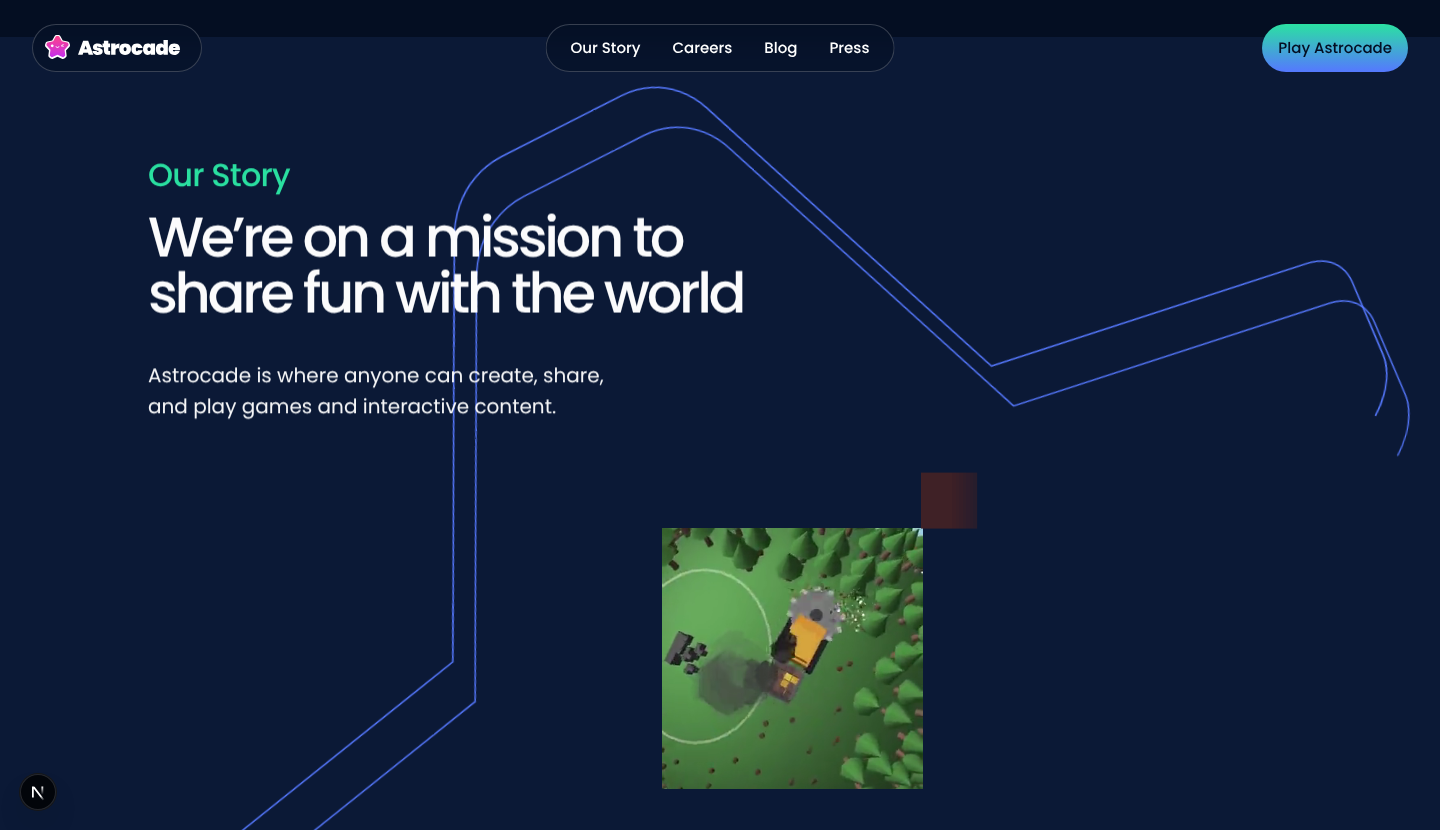
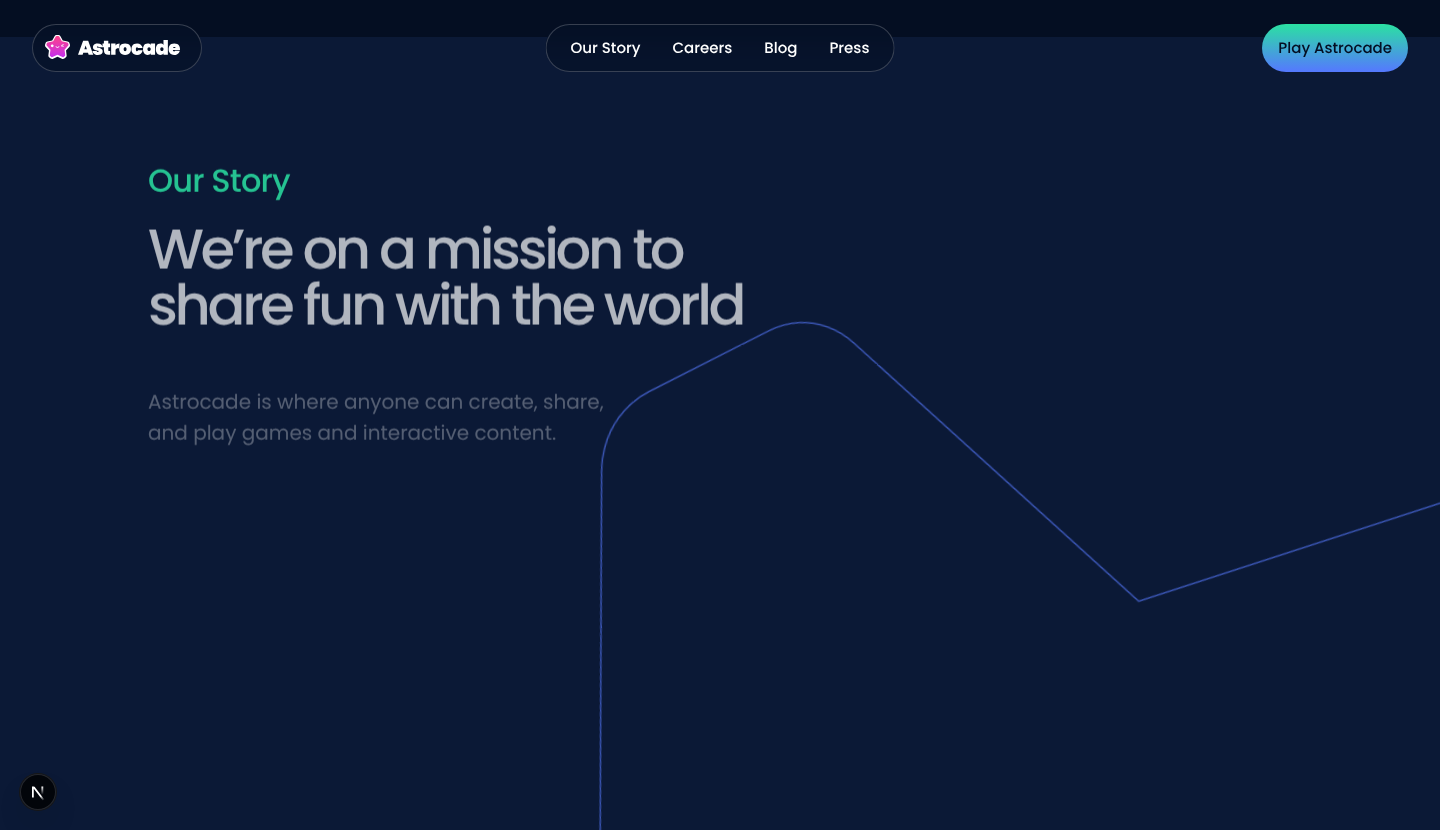
Our Story outline ripples out from the innermost line (next to the star boxes)
Claude-Session: https://claude.ai/code/session_01V8sXgFS3xdYpwR1xoxM8E9

diff --git a/src/components/home/StoryLines.tsx b/src/components/home/StoryLines.tsx
@@ -4,8 +4,10 @@ import type { CSSProperties } from "react";
  *  The four lines are parallel copies of one outline, each shifted further out.
  *  Once an ancestor gets `.is-in` they ripple outward from the innermost line,
  *  one after another — played once. */
-// offset of each line from the innermost one (viewBox units)
+// position of each line (viewBox units); the last one hugs the star boxes, so
+// it is the innermost and the ripple starts from it
 const SHIFT = [[0, 0], [-60, 46], [-126, 103], [-212, 179]];
+const INNER = SHIFT[SHIFT.length - 1];
 const LINES = [
   "M228.684 267.646C227.935 258.925 228.398 250.584 229.949 242.942C231.517 235.253 234.193 228.269 237.867 222.341C241.568 216.364 246.278 211.457 251.874 207.967L325.859 161.907C332.056 158.051 338.84 155.928 345.871 155.49C352.947 155.052 360.265 156.316 367.459 159.23C374.675 162.166 381.75 166.755 388.325 172.935L678.163 445.497L1099.11 387.434C1110.44 385.871 1121.69 386.324 1132.37 388.608C1143.1 390.916 1153.23 395.069 1162.23 400.87C1171.25 406.682 1179.12 414.14 1185.34 423.014L1262.52 533.348C1268.6 542.03 1272.63 551.525 1274.62 561.327C1276.59 571.088 1276.53 581.118 1274.47 590.926C1272.42 600.672 1268.39 610.172 1262.43 618.967L1046.46 937.377L1192.31 1235.5C1195.43 1241.89 1196.95 1248.2 1196.96 1254.14C1196.97 1260.07 1195.47 1265.62 1192.55 1270.54C1189.65 1275.44 1185.35 1279.7 1179.74 1283.08L1112.65 1323.52C1107.58 1326.58 1101.54 1328.64 1094.89 1329.72C1088.3 1330.78 1081.09 1330.87 1073.63 1329.99C1066.21 1329.11 1058.53 1327.27 1050.91 1324.47",
   "M168.408 313.554C167.659 304.832 168.122 296.491 169.673 288.849C171.241 281.16 173.917 274.176 177.591 268.248C181.292 262.271 186.003 257.364 191.598 253.874L265.584 207.814C271.78 203.958 278.564 201.836 285.595 201.397C292.671 200.959 299.989 202.223 307.183 205.137C314.399 208.073 321.474 212.662 328.049 218.842L617.887 491.405L1038.83 433.341C1050.16 431.779 1061.42 432.232 1072.09 434.515C1082.83 436.823 1092.95 440.976 1101.95 446.777C1110.98 452.589 1118.85 460.047 1125.06 468.921L1202.25 579.256C1208.33 587.937 1212.35 597.432 1214.34 607.234C1216.31 616.995 1216.26 627.025 1214.19 636.834C1212.14 646.579 1208.11 656.079 1202.15 664.874L986.187 983.284L1132.03 1281.4C1135.16 1287.8 1136.68 1294.1 1136.68 1300.05C1136.7 1305.97 1135.19 1311.53 1132.28 1316.45C1129.38 1321.35 1125.07 1325.61 1119.47 1328.99L1052.38 1369.43C1047.3 1372.49 1041.26 1374.55 1034.61 1375.63C1028.02 1376.69 1020.82 1376.78 1013.36 1375.9C1005.94 1375.02 998.257 1373.18 990.632 1370.38",
@@ -25,9 +27,9 @@ export default function StoryLines({ className = "", style }: { className?: stri
           strokeWidth={1.5}
           strokeLinejoin="round"
           style={{
-            ["--d" as string]: `${0.15 + i * 0.22}s`,
-            ["--tx" as string]: `${-SHIFT[i][0]}px`,
-            ["--ty" as string]: `${-SHIFT[i][1]}px`,
+            ["--d" as string]: `${0.15 + (SHIFT.length - 1 - i) * 0.22}s`,
+            ["--tx" as string]: `${INNER[0] - SHIFT[i][0]}px`,
+            ["--ty" as string]: `${INNER[1] - SHIFT[i][1]}px`,
           }}
         />
       ))}
